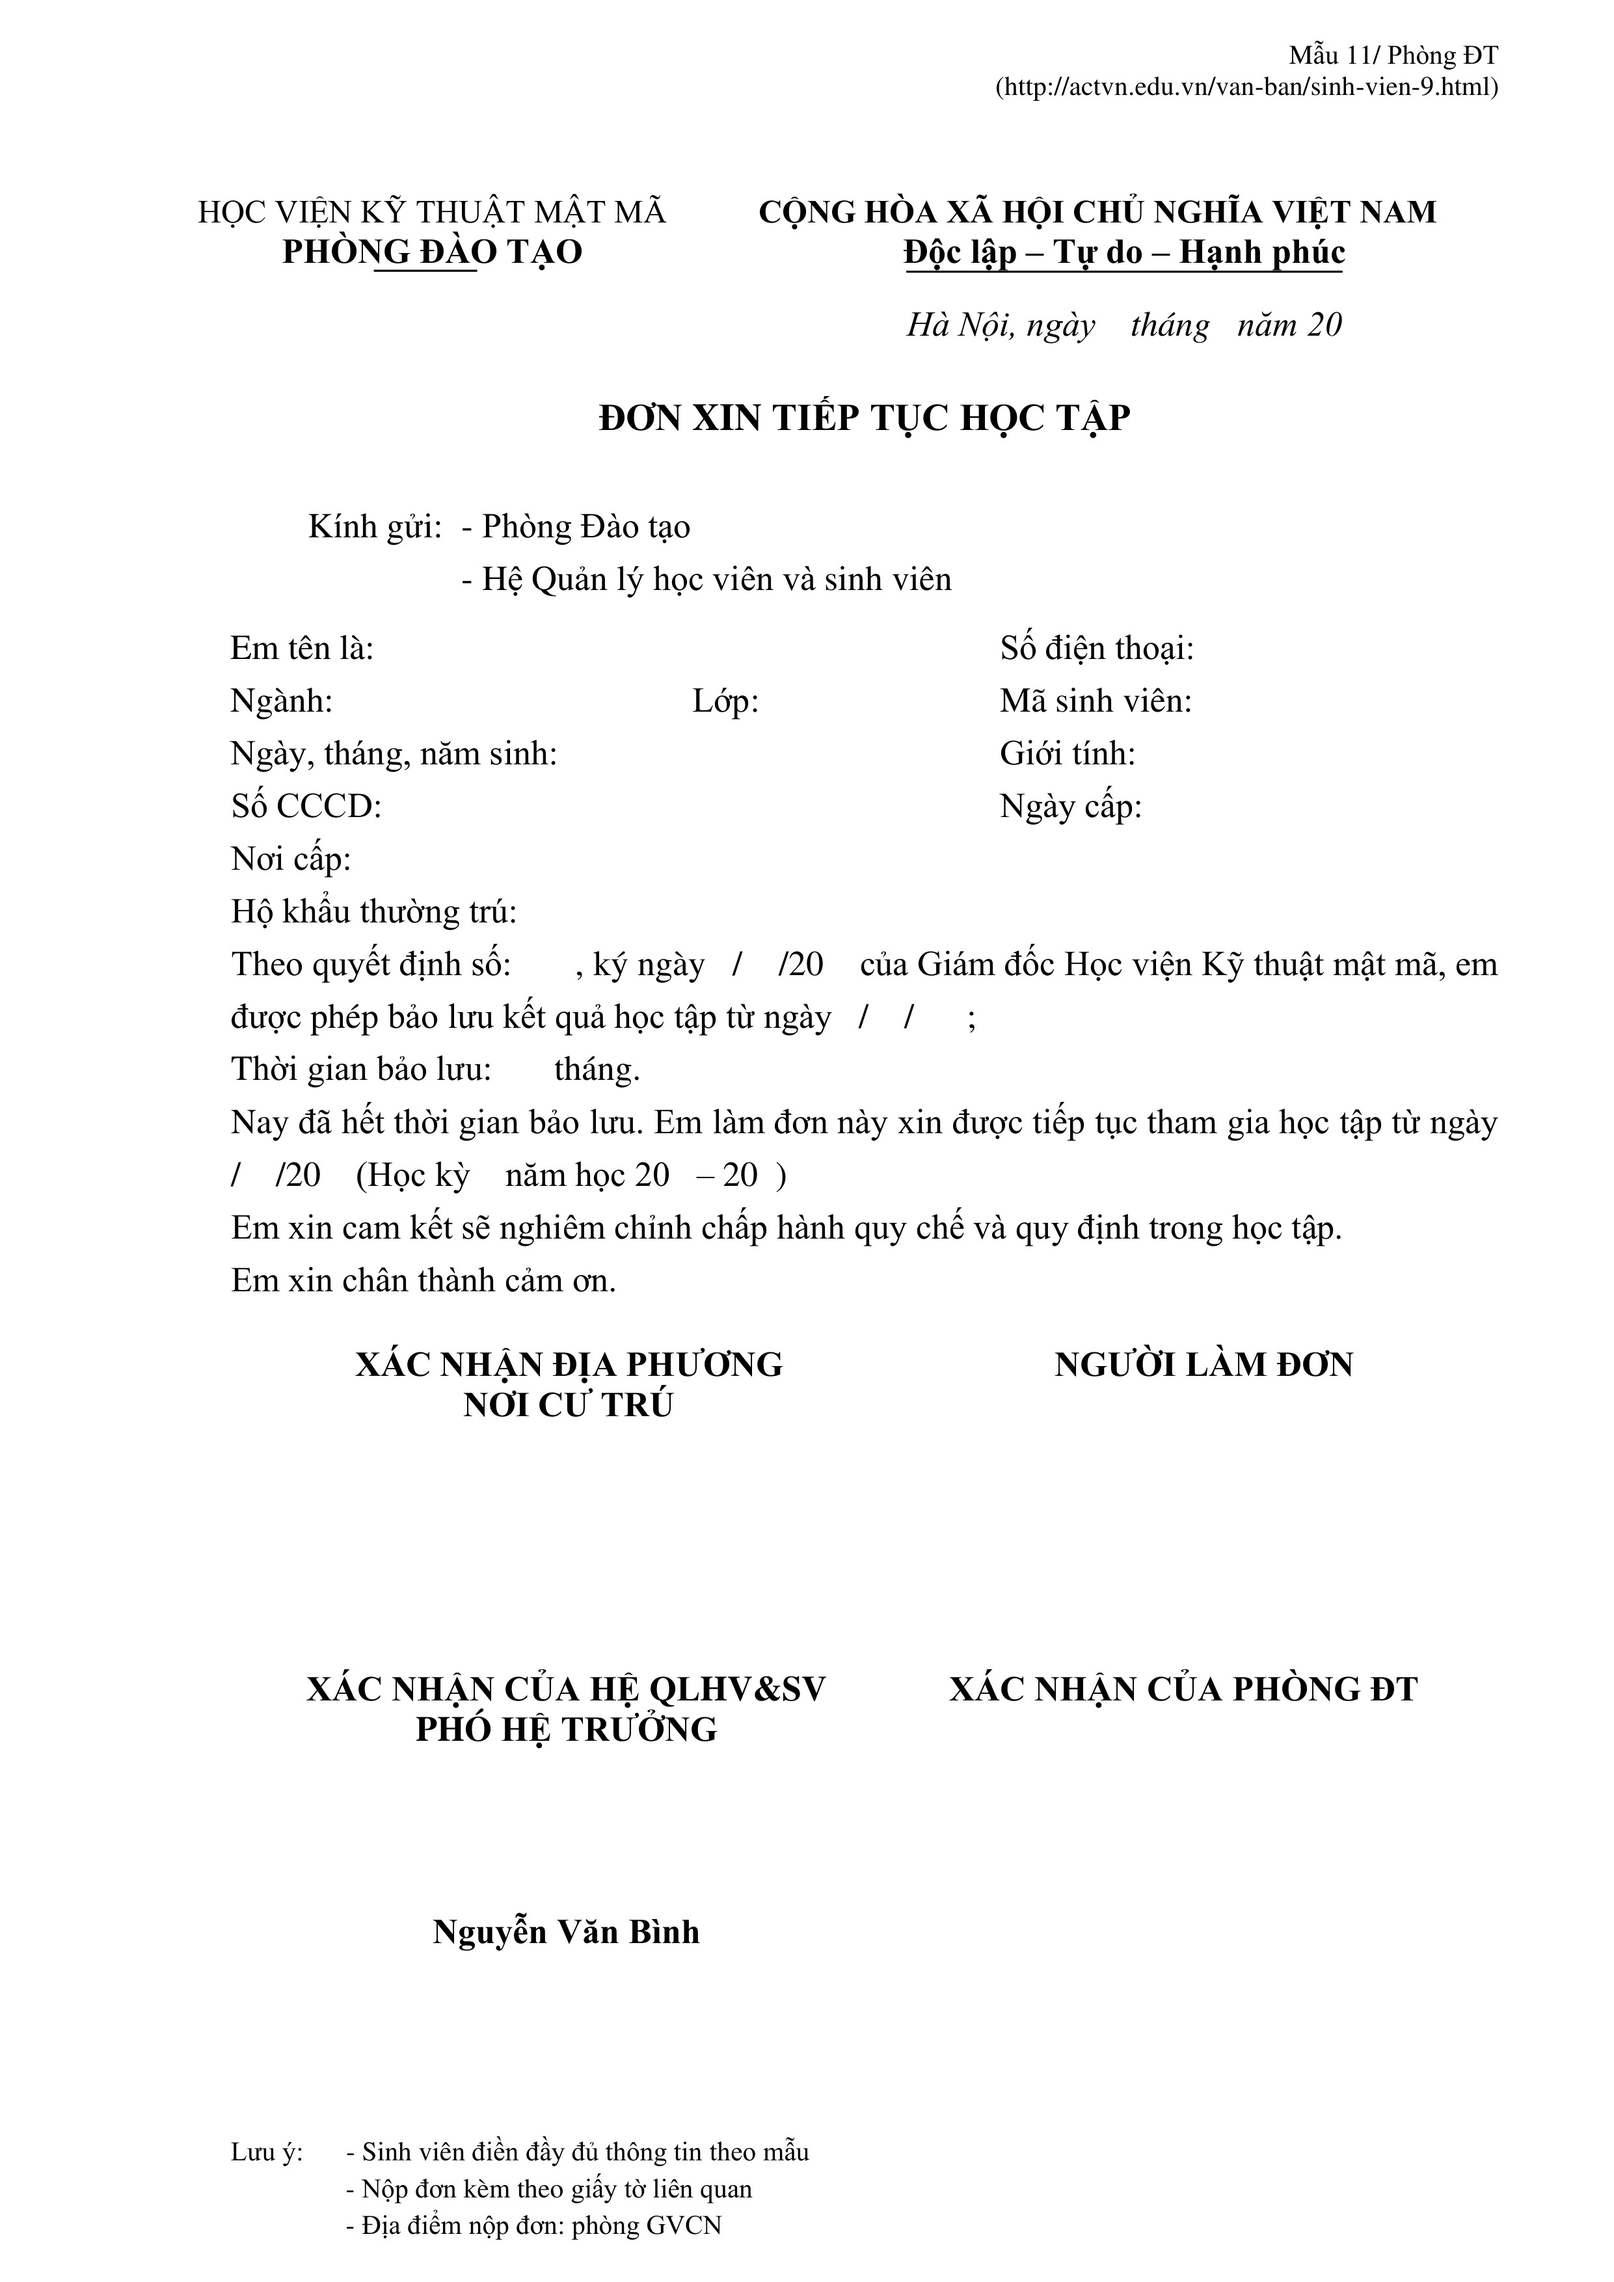
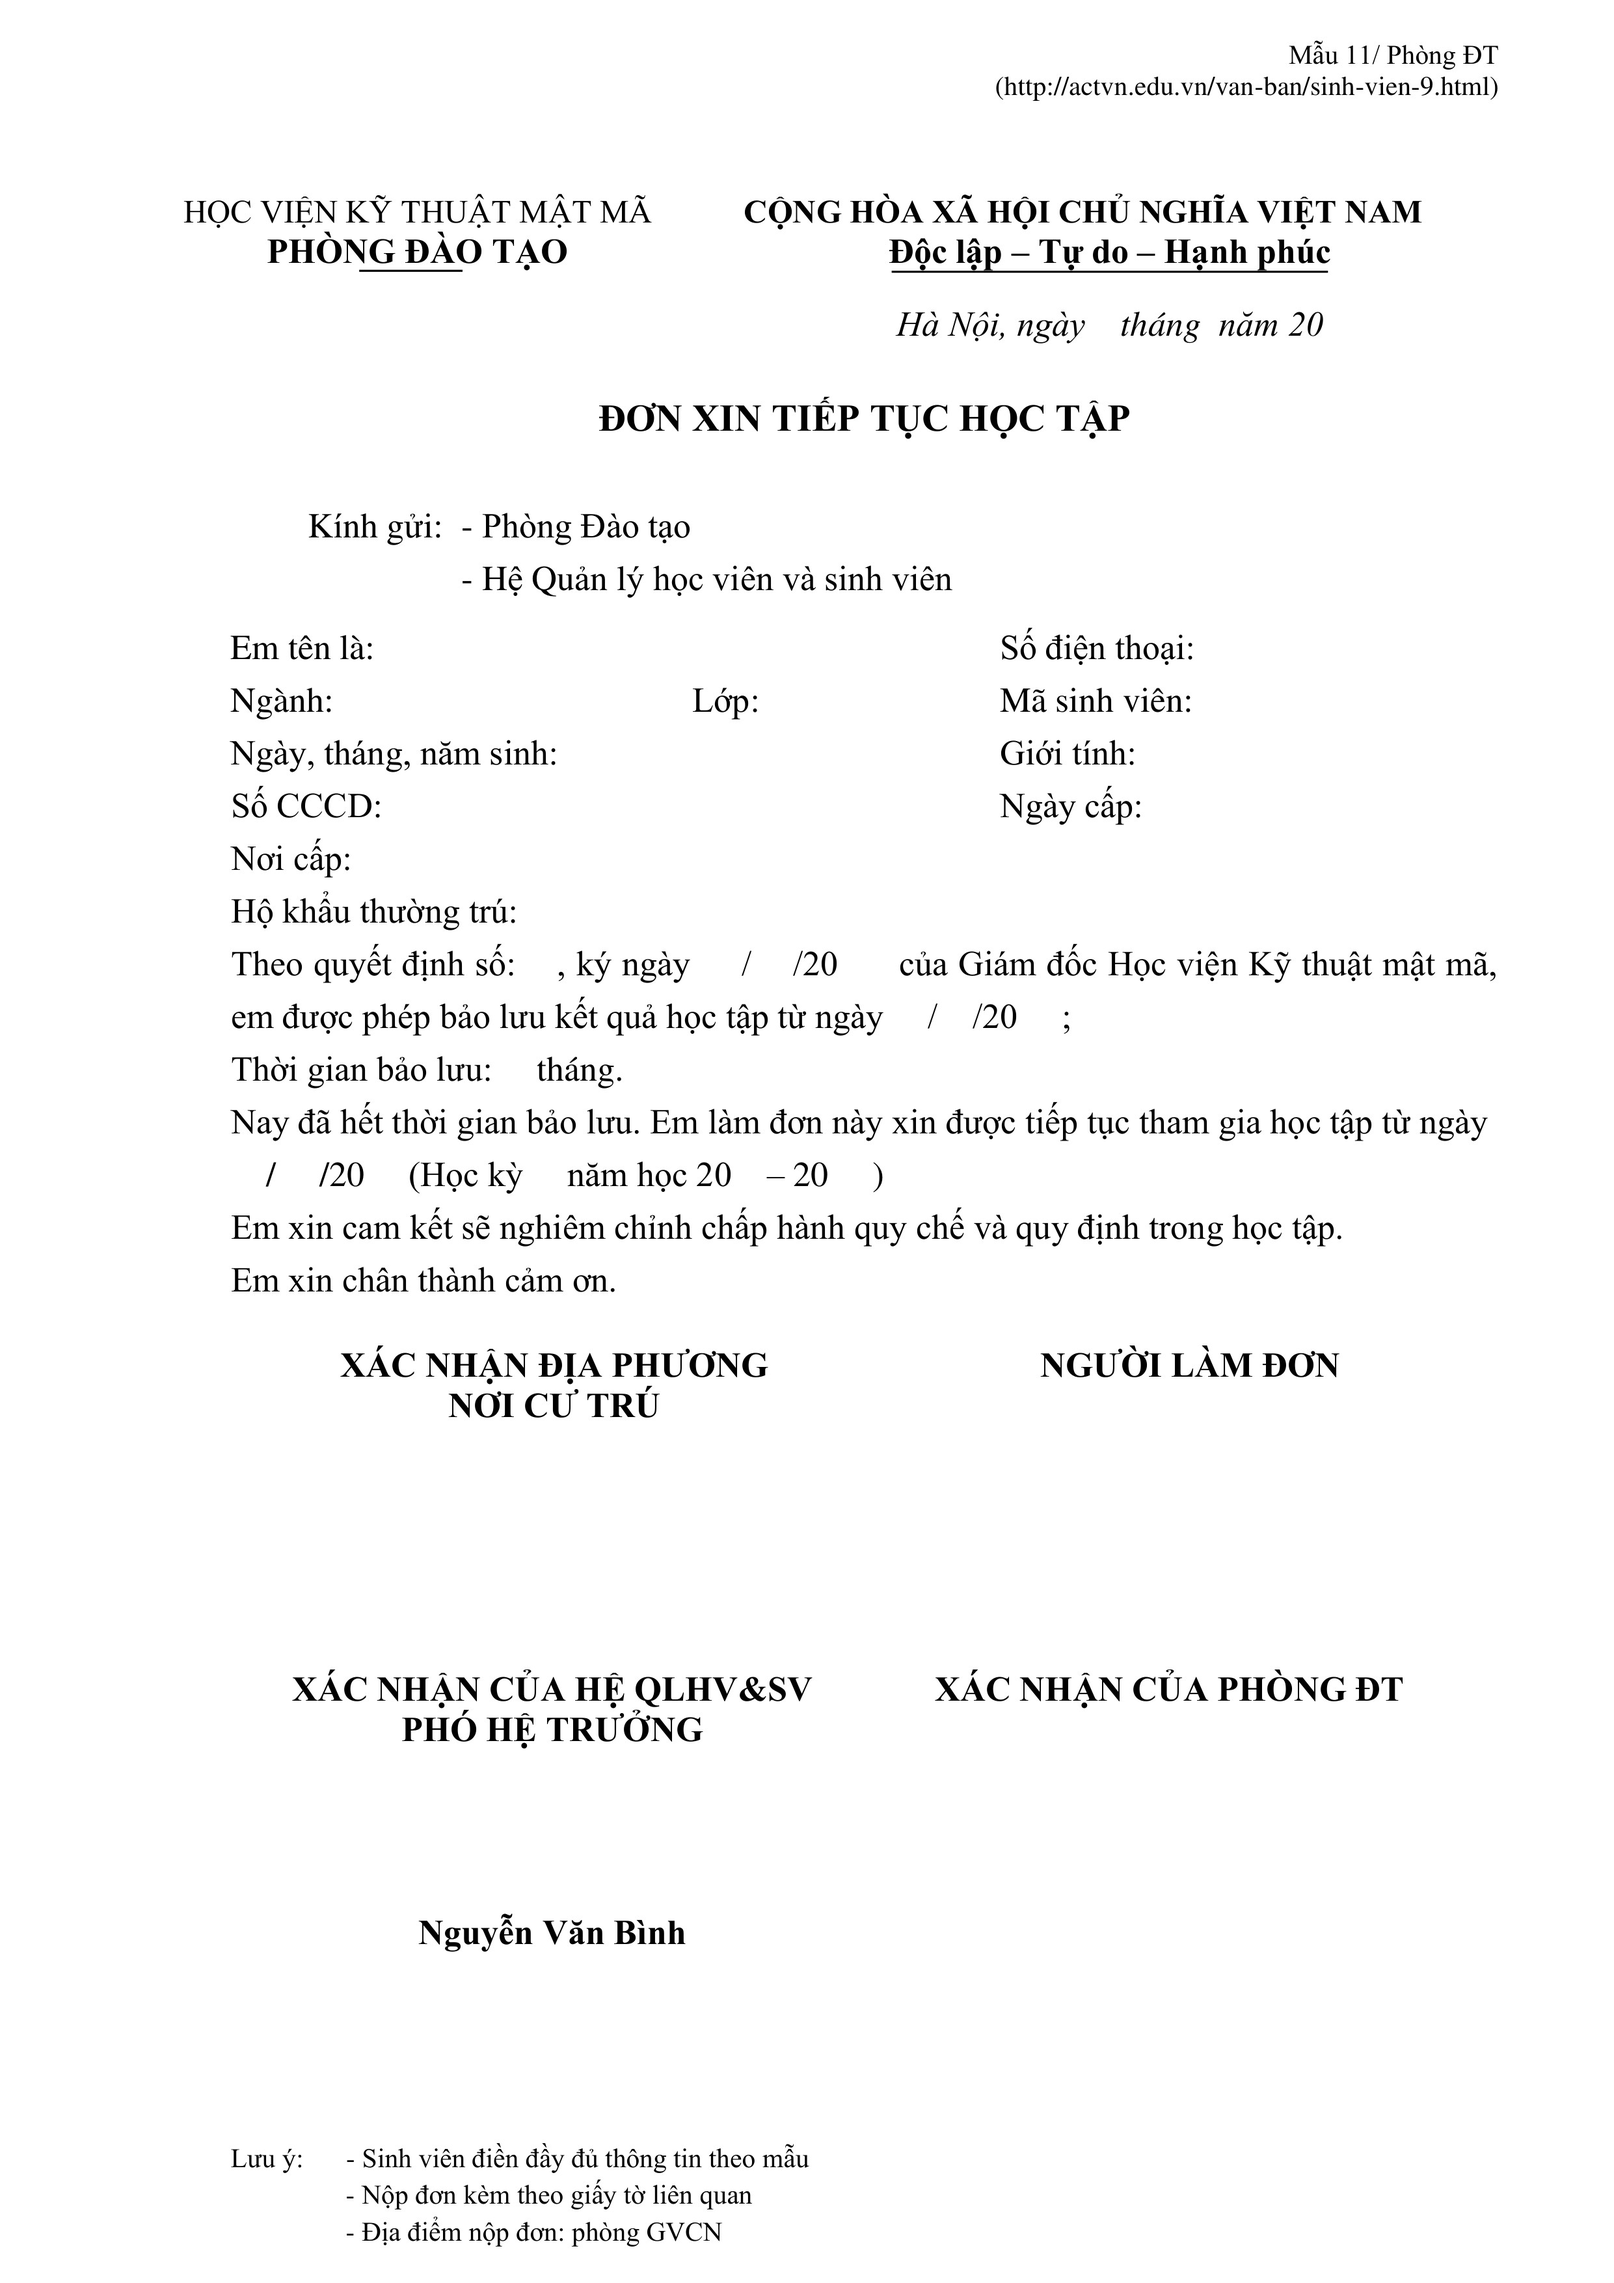
fix: correct some fields region

diff --git a/app/service/ocr_service.py b/app/service/ocr_service.py
@@ -14,8 +14,8 @@ from app.core.ocr_config import get_vietocr_predictor
 detector = get_vietocr_predictor()
 
 OCR_SCHEMA_DIR = 'ocr/schema/';
+OCR_BASE_FORM_DIR = 'ocr/base-form/';
 DOWLOADED_FILES_DIR = 'form-images/';
-OCR_OUTPUT_DIR = 'ocr/ocr-output/';
 
 def align_image(image, template, maxFeatures=500, keepPercent=0.2,
     debug=False):
@@ -94,7 +94,7 @@ def sharpen_image(image):
     result_norm_planes = []
     for plane in rgb_planes:
         dilated_img = cv2.dilate(plane, np.ones((7,7), np.uint8))
-        bg_img = cv2.medianBlur(dilated_img, 21)
+        bg_img = cv2.medianBlur(dilated_img, 11)
         diff_img = 255 - cv2.absdiff(plane, bg_img)
         norm_img = cv2.normalize(diff_img,None, alpha=0, beta=255, norm_type=cv2.NORM_MINMAX, dtype=cv2.CV_8UC1)
         result_norm_planes.append(norm_img)
@@ -102,7 +102,9 @@ def sharpen_image(image):
     result_norm = cv2.merge(result_norm_planes)
     # tranform: convert into gray single channel
     gray_image = cv2.cvtColor(result_norm, cv2.COLOR_BGR2GRAY)
-    _, binary_image = cv2.threshold(gray_image, 0, 255, cv2.THRESH_BINARY + cv2.THRESH_OTSU)
+    clahe = cv2.createCLAHE(clipLimit=2.0, tileGridSize=(8, 8))
+    enhanced_image = clahe.apply(gray_image)
+    _, binary_image = cv2.threshold(enhanced_image, 0, 255, cv2.THRESH_BINARY + cv2.THRESH_OTSU)
 
     return binary_image
 
@@ -124,6 +126,13 @@ def calculate_average_brightness(image, region):
         print('[ocr-service]: read file fail:', e)
         return None
 
+def post_process_text(text):
+    blacklist = ["Contransitionalists"]
+    if text in blacklist:
+        return ""
+
+    return text
+
 def retrieve_text(image, region):
     # Crop the region
     left, top, width, height = region
@@ -133,10 +142,10 @@ def retrieve_text(image, region):
     cropped_pil = Image.fromarray(cv2.cvtColor(cropped_image, cv2.COLOR_BGR2RGB))
 
     text = detector.predict(cropped_pil)
+    text = post_process_text(text)
     return text
 
 def init_directories():
-    os.makedirs(OCR_OUTPUT_DIR, exist_ok=True)
     os.makedirs(DOWLOADED_FILES_DIR, exist_ok=True)
 
 def get_files(downloading_urls):
@@ -176,18 +185,32 @@ def get_checkbox_input(image, regions, brightness_threshold = 3):
             entries.append(region_info['entry'])
     return entries
 
-async def do_ocr(image_urls, application_name):
+async def do_ocr(image_urls, application_name, debug=True):
+    # get image files from urls
     images = get_files(image_urls)
 
+    processed_images = []
+    counter = 1;
+    for image in images:
+        template_path = f"{OCR_BASE_FORM_DIR}{application_name}/{counter}.jpg"
+        template = cv2.imread(template_path)
+        aligned_image = align_image(image, template)
+        sharpened_image = sharpen_image(aligned_image)
+        if debug:
+            cv2.imwrite(f"{DOWLOADED_FILES_DIR}{counter}.jpg", sharpened_image)
+        processed_images.append(sharpened_image)
+        counter = counter + 1;
+
+    # Load the OCR schema from JSON file
     schema_file_path = f"{OCR_SCHEMA_DIR}{application_name}.json"
     with open(schema_file_path, 'r', encoding='utf-8') as file:
         instruction = file.read()
-
     fields = json.loads(instruction)
+
     ocr_output = []
 
     for field in fields:
-        image = images[int(field['page_number'])-1]
+        image = processed_images[int(field['page_number'])-1]
         if field['type'] == 'OCR_WORD':
             region = field['regions'][0]['region']
             ocr_text = retrieve_text(image, region)

diff --git a/ocr/field_image_save.py b/ocr/field_image_save.py
@@ -53,7 +53,7 @@ For debugging purposes only
 Crop all regions that is specified in the -schema.json
 '''
 if __name__ == '__main__':
-    application_name='reissued-student-health-insurrance-application' #alter this
+    application_name = 'continue-study-application' #alter this
     output_path = 'debug/'
 
     init_out_folder(output_path)
@@ -65,7 +65,6 @@ if __name__ == '__main__':
             file_path = os.path.join(folder_path, file)
             os.remove(file_path)
 
-    # images_dir = 'temp/' + application_name + '/'
-    images_dir = 'base-form/' + application_name + '/' #alter this
+    images_dir = '../form-images/' #alter this
     schema_file = 'schema/' + application_name + '.json'
     save_fields_as_images(images_dir, output_path, schema_file)

diff --git a/ocr/field_creator.py b/ocr/field_creator.py
@@ -92,7 +92,7 @@ region.txt file note: notice that field-line and region-line must not start with
     DUMMY,DUMMY,-1,DUMMY,DUMMY:
 '''
 if __name__ == "__main__":
-    application_name = 'reissued-student-health-insurrance-application' #alter this
+    application_name = 'continue-study-application' #alter this
 
     source_file = 'region/' + application_name + '.txt'
     json_file = 'schema/' + application_name + '.json'
